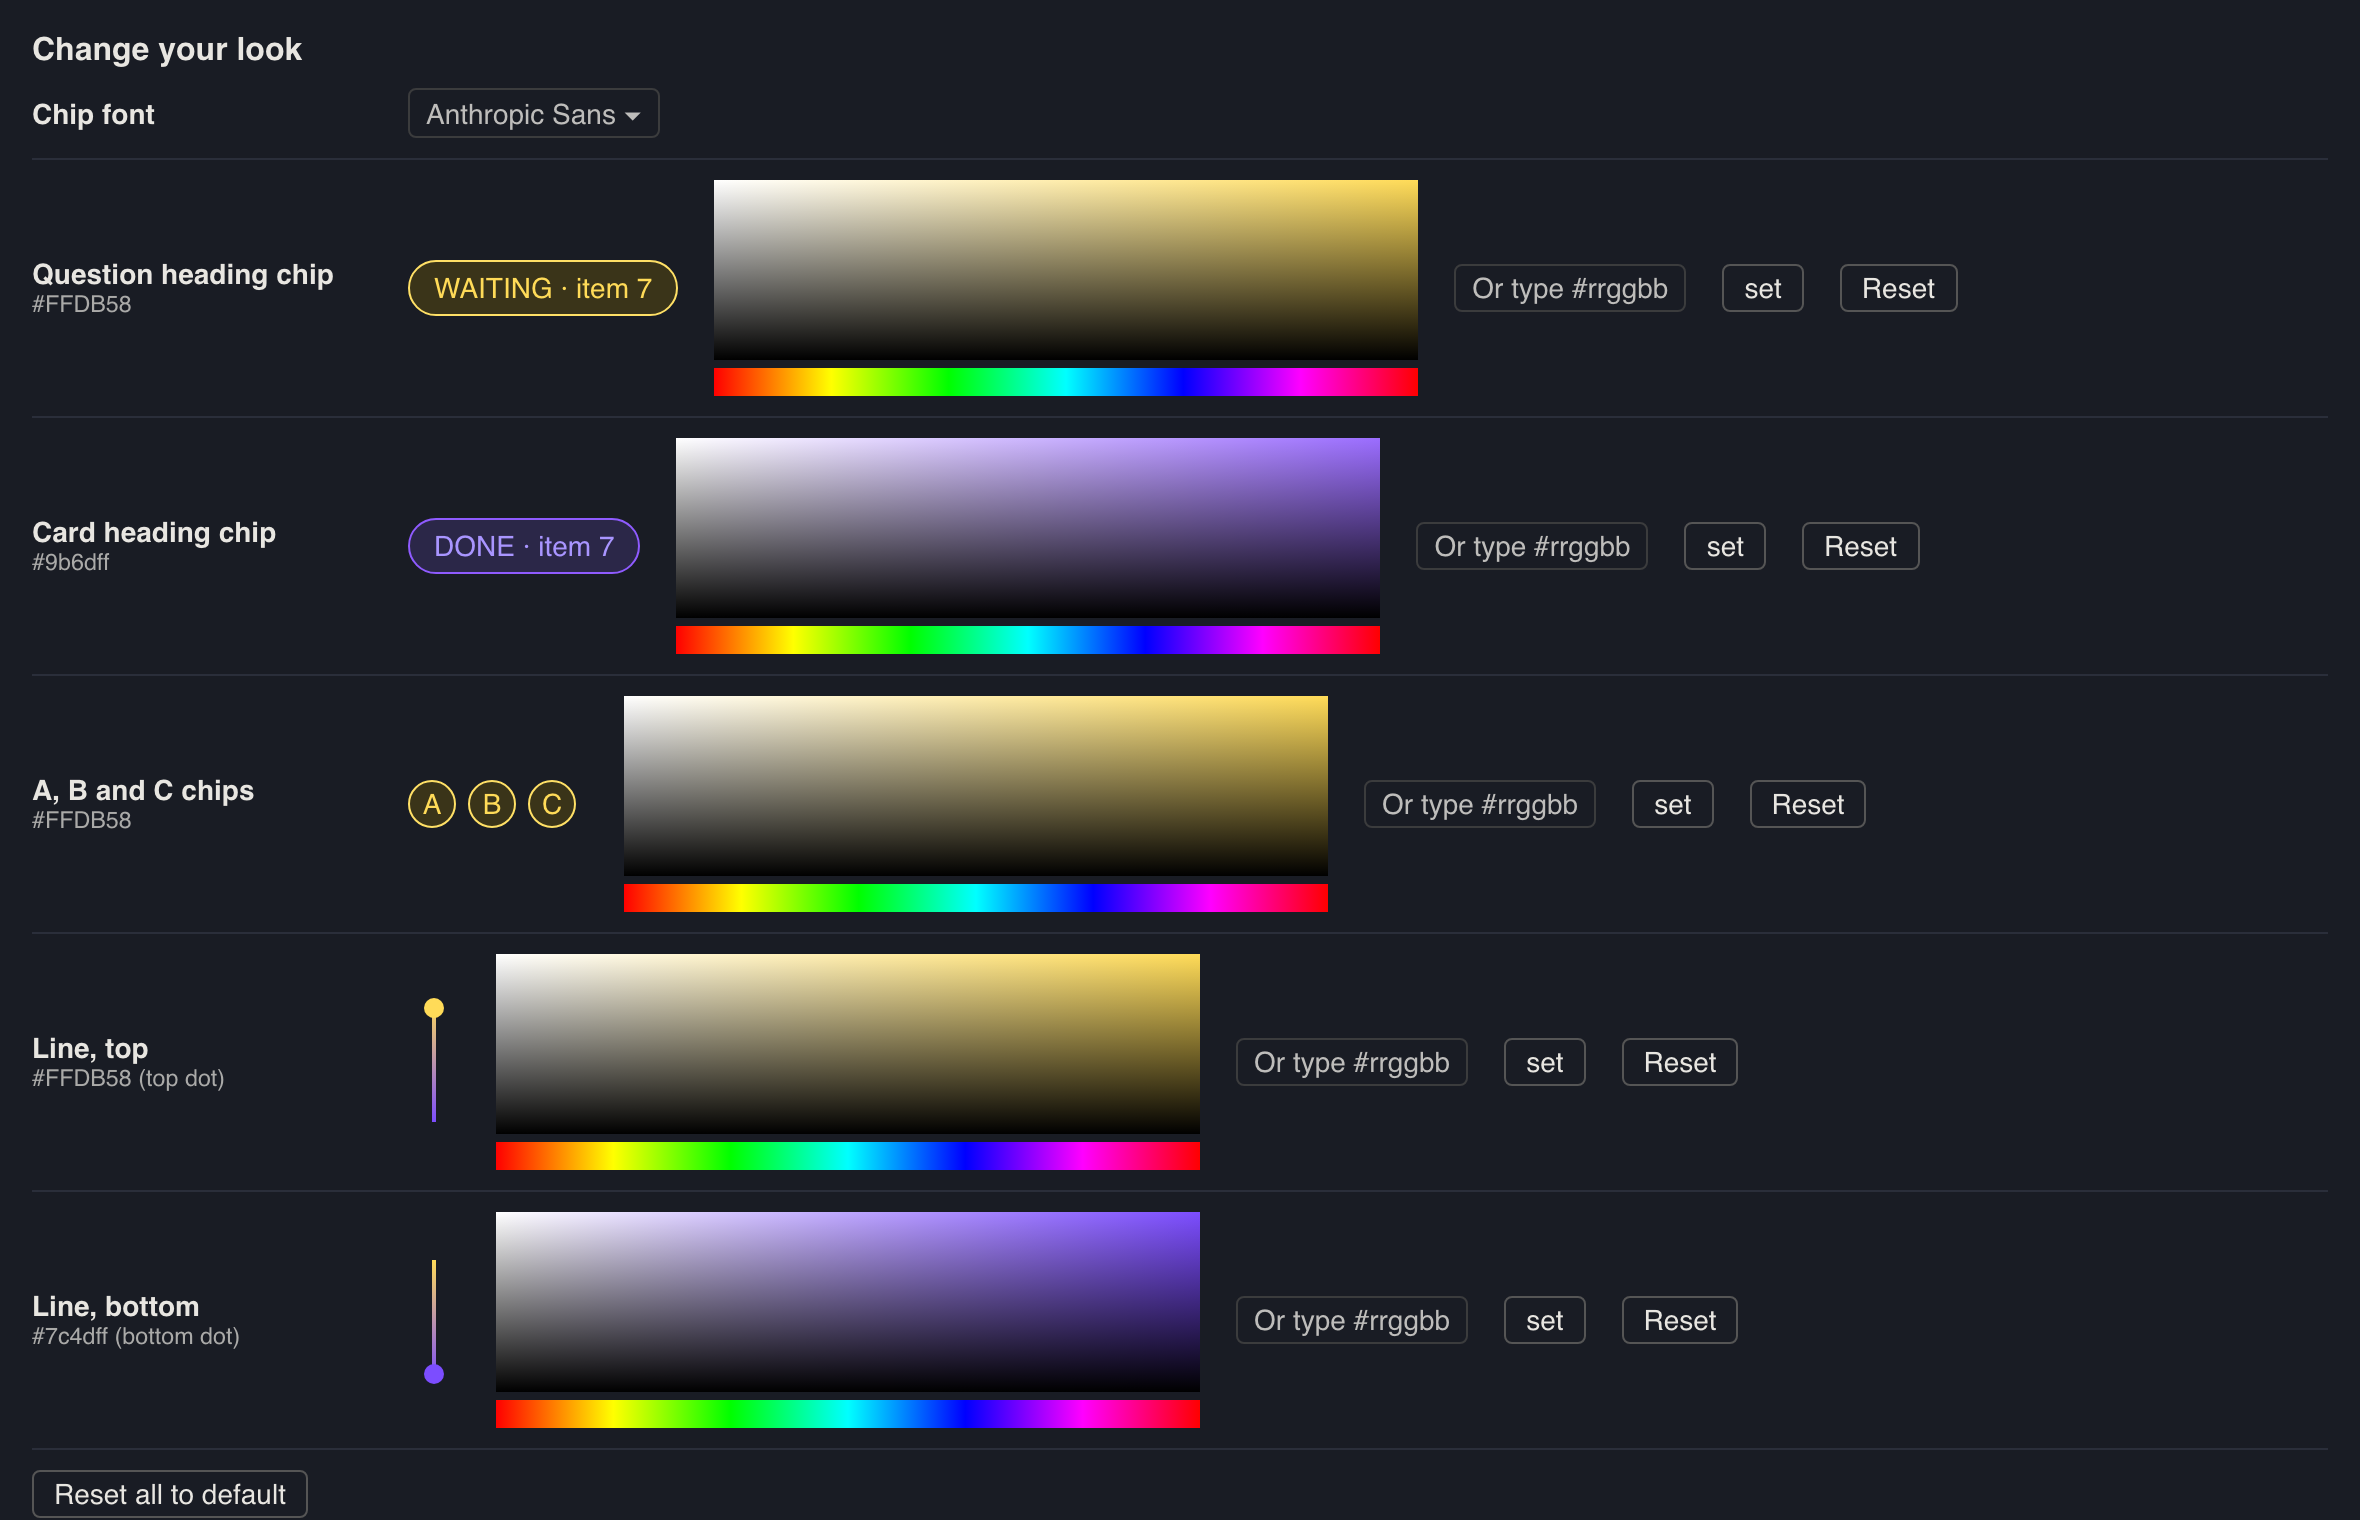
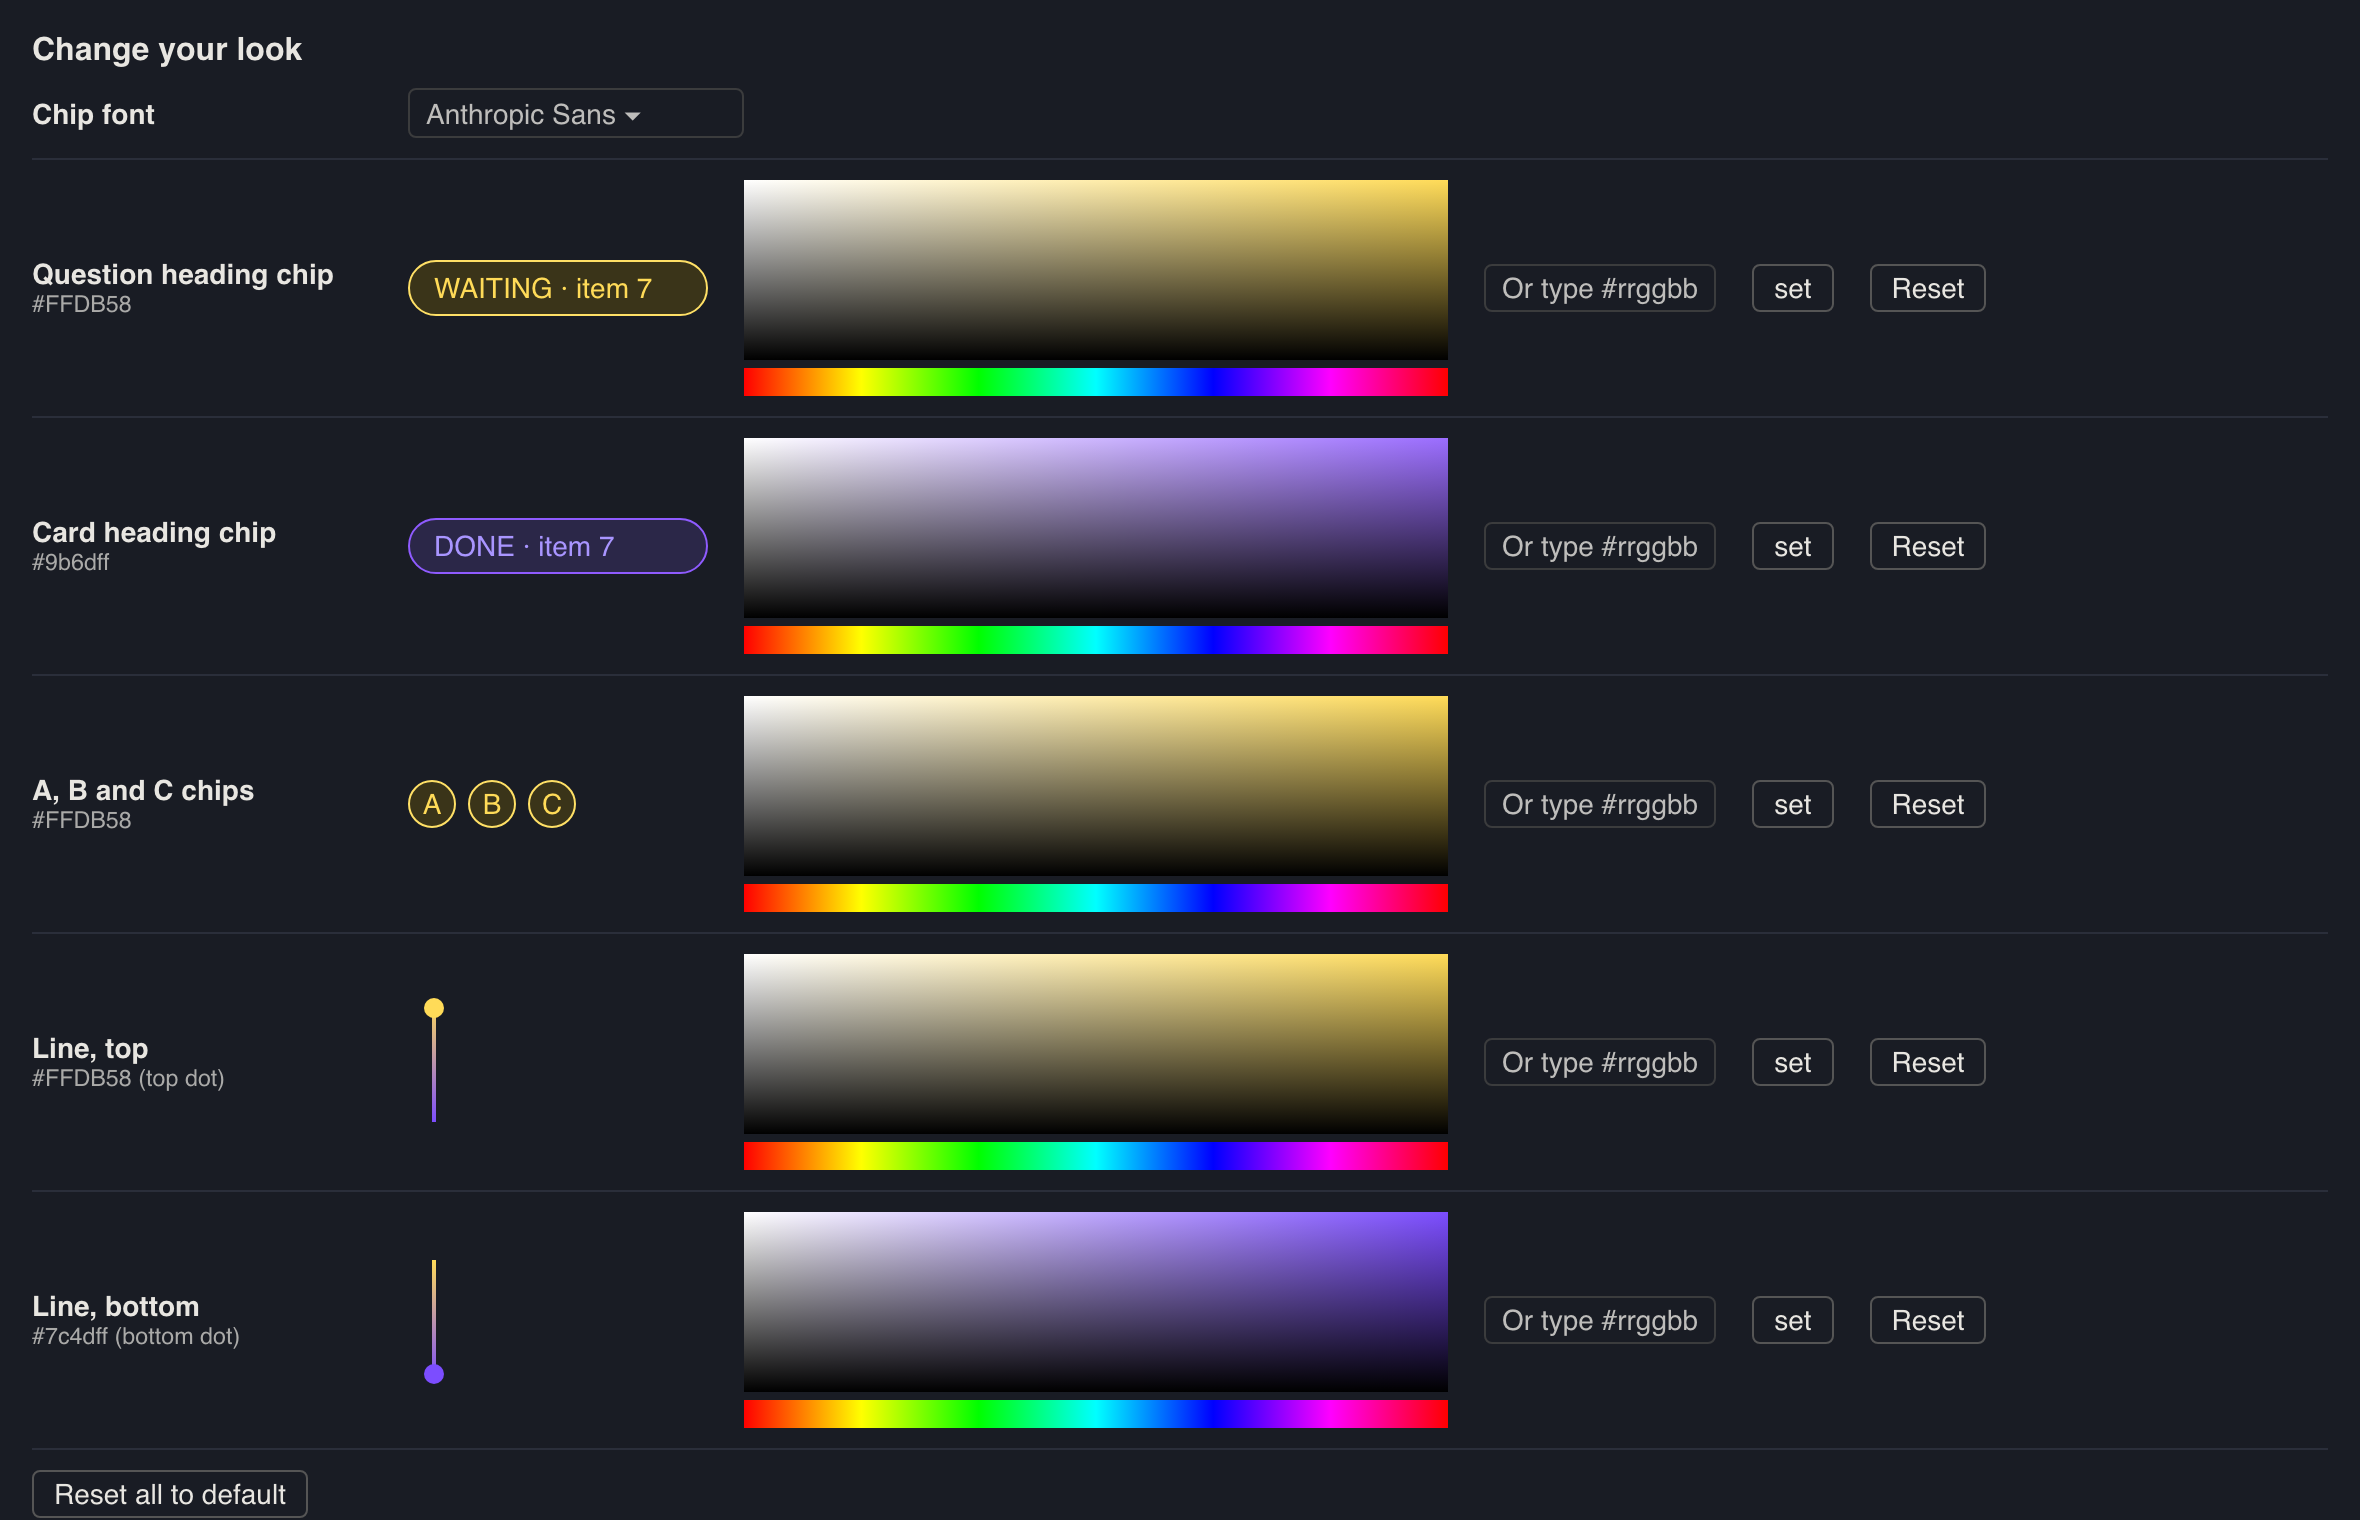
Muster look: settings pickers line up in one column, with the type box, set and Reset after them (item 118, sample)

Changed region(s): [[0.1856, 0.1237, 0.8352, 0.9586], [0.8042, 0.8658, 0.8352, 0.8967], [0.8042, 0.6803, 0.8352, 0.7112]]

diff --git a/mods/muster-look/hooks/panel.tsx b/mods/muster-look/hooks/panel.tsx
@@ -110,14 +110,16 @@ export function panel(on: any) {
         {COLOURS.map(c => {
           const hex = v[c.key] || c.dflt
           return (
-            <Box key={c.key} flexDirection="column" gap={1}>
-              <Box flexDirection="row" gap={1}>
-                <Text bold>{c.label}</Text>
-                <Text>{hex}</Text>
+            <Box key={c.key} flexDirection="row" gap={2} alignItems="center">
+              <Box key={`${c.key}-left`} flexDirection="column" width={34} flexShrink={0}>
+                <Box flexDirection="row" gap={1}>
+                  <Text bold>{c.label}</Text>
+                  <Text>{hex}</Text>
+                </Box>
+                <Box key={`${c.key}-sample`} flexDirection="row">{sampleOf(Svg, Box, c.key, hex, v)}</Box>
               </Box>
-              <Box key={`${c.key}-sample`} flexDirection="row">{sampleOf(Svg, Box, c.key, hex, v)}</Box>
               {Client !== undefined && <Client key={`field-${c.key}`} module="./field.tsx" props={{ id: c.key, hex }} />}
-              <Box flexDirection="row" gap={1}>
+              <Box key={`${c.key}-right`} flexDirection="column">
                 <Input
                   key={`${c.key}-hex`}
                   label="Or type #rrggbb "
